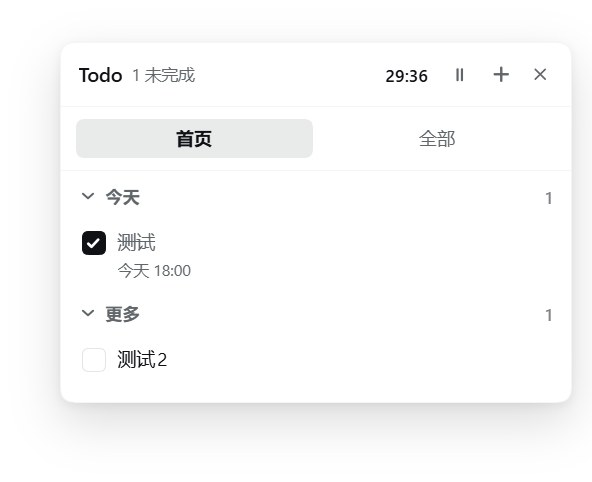
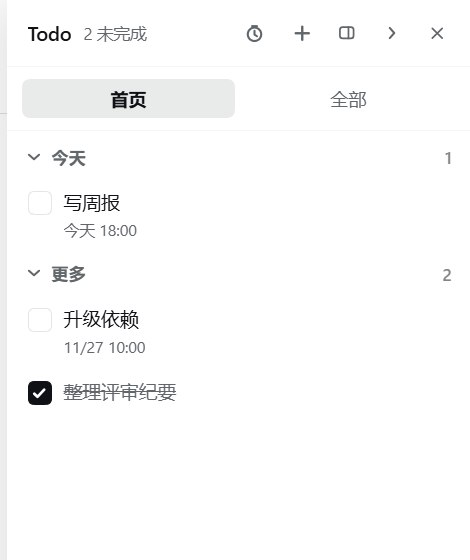
docs: refresh the screenshots for the docked column

diff --git a/README.md b/README.md
@@ -7,7 +7,7 @@ English | [中文](README.zh.md)
 
 A todo panel for the DeepSeek Harness Web UI. It docks as a full-height column on the right — or floats over the chat as a resizable card that snaps to the window edges — and carries a pomodoro timer in its header.
 
-![The todo panel floating over the app](assets/screenshots/in-app.jpg)
+![The todo panel docked beside the conversation](assets/screenshots/in-app.jpg)
 
 ## Features
 
@@ -169,6 +169,7 @@ There is no JSX: components are built with `React.createElement` (aliased to `h`
 
 ## Changelog
 
+- `1.6.19` — the screenshots now show the docked column next to the chat instead of the old floating card.
 - `1.6.18` — the floating card can be resized from its left edge, its bottom edge or the corner, and remembers the size.
 - `1.6.17` — the floating card hugs its content again instead of stretching to the window, and keeps its own 360px width.
 - `1.6.16` — a layout button switches between the docked column and the floating card, and the choice is persisted.

diff --git a/README.zh.md b/README.zh.md
@@ -7,7 +7,7 @@
 
 一个贴住 DeepSeek Harness Web UI 右侧的待办侧栏：默认顶天立地占满整列高度、和对话区并列，也可以切成一张可拖动、可改大小的浮窗，折叠后只留一个悬浮箭头，标题栏里还带一个番茄钟。
 
-![悬浮在界面上的待办面板](assets/screenshots/in-app.jpg)
+![停靠在对话右侧的待办面板](assets/screenshots/in-app.jpg)
 
 ## 功能
 
@@ -169,6 +169,7 @@ dsh plugin --profile web add dsh-better-todo
 
 ## 更新记录
 
+- `1.6.19` —— 截图换成停靠侧栏的样子（不再是旧的浮动卡片）。
 - `1.6.18` —— 浮窗可拖左边缘、下边缘或右下角调整大小，尺寸会记住；右下角双击回到内容自适应高度。
 - `1.6.17` —— 浮动卡片重新按内容自适应高度（不再拉满窗口），宽度固定为 360。
 - `1.6.16` —— 顶部多了一个布局按钮，可在定宽侧栏与浮动卡片之间来回切换，选择会被持久化。
